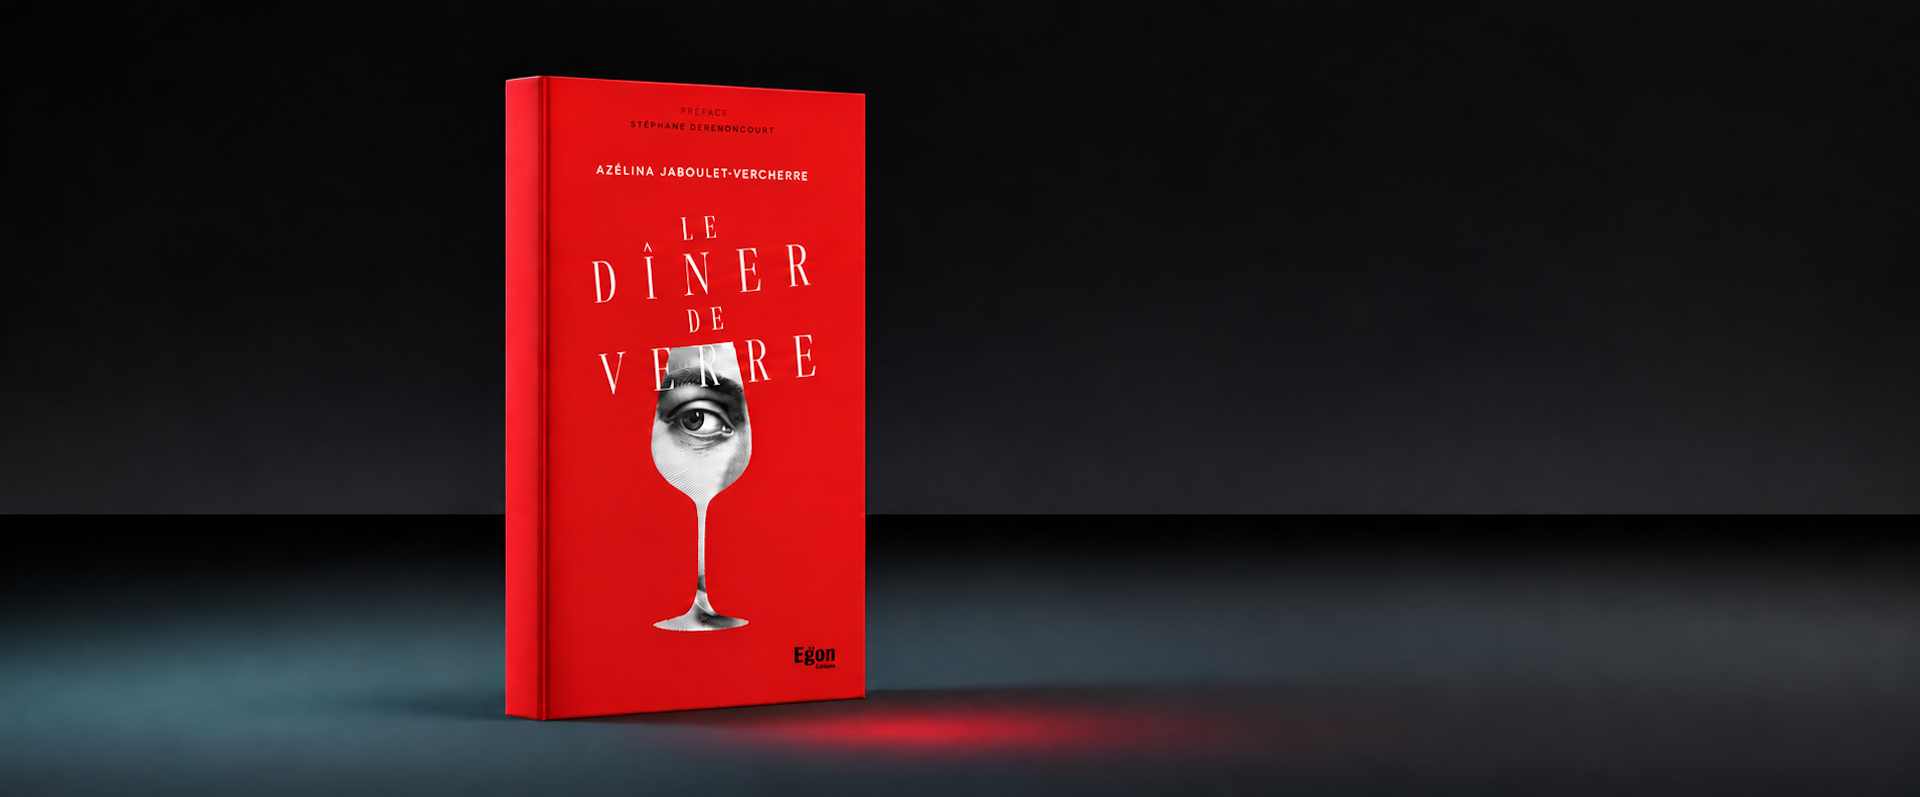
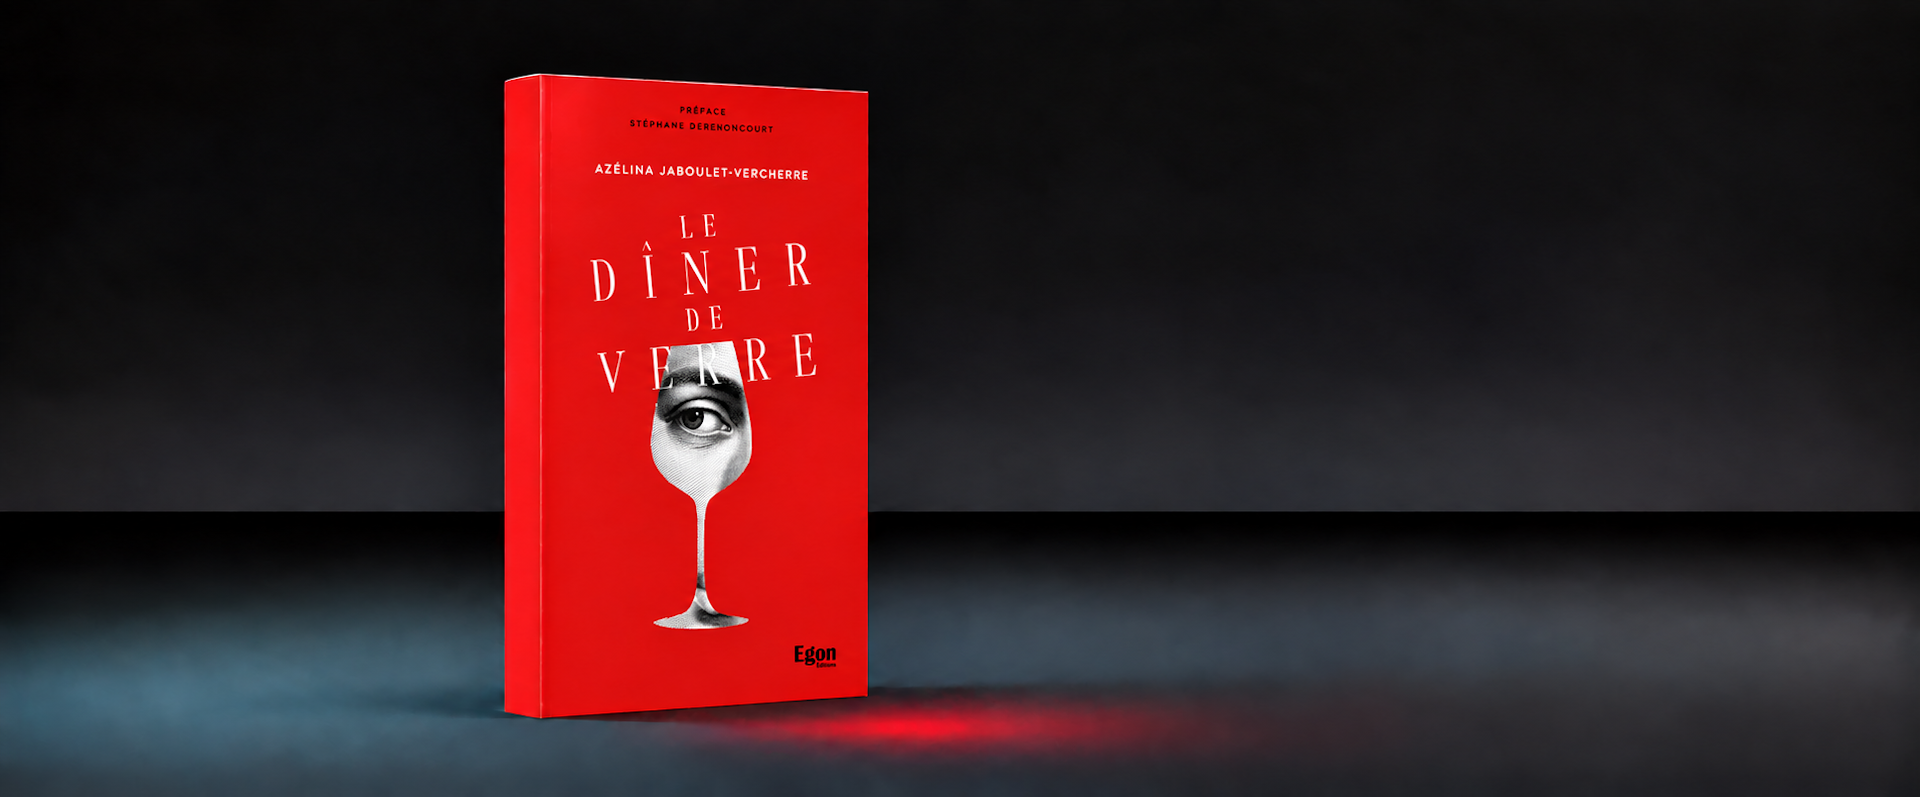
@Paris [EVO] Updated book images + added binding type + temporarily removed book images carousel

diff --git a/src/components/Shop.js b/src/components/Shop.js
@@ -12,9 +12,7 @@ import azelina1 from '../assets/images/shop/azelina_151.png';
 import azelina2 from '../assets/images/shop/azelina_211.png';
 import azelina3 from '../assets/images/shop/azelina_316.png';
 import azelina4 from '../assets/images/shop/azelina_421.png';
-import bookBackCover from '../assets/images/shop/book-back-cover_400.png';
-import bookCover from '../assets/images/shop/book-cover_400.png';
-import bookExcerpt from '../assets/images/shop/book-excerpt_400.png';
+import bookCover from '../assets/images/shop/book-cover_247.png';
 import clsx from 'clsx';
 import drawing1 from '../assets/images/shop/drawing_190.png';
 import drawing2 from '../assets/images/shop/drawing_379.png';
@@ -43,7 +41,7 @@ const Shop = (): React.Node => {
     setCurrentIndex(index);
   }, []);
 
-  const covers = [bookCover, bookBackCover, bookExcerpt];
+  const covers = [bookCover];
 
   return (
     <div
@@ -110,12 +108,12 @@ const Shop = (): React.Node => {
               ))}
             </div>
             <div className='book-cover__carousel'>
-              {covers.map((_, index) => <Bullet
+              {covers.length > 1 ? covers.map((_, index) => <Bullet
                 index={index}
                 isFull={index === currentIndex}
                 isLight={false}
                 key={`cover-bullet-${index}`}
-                onClick={handleBulletOnClick} />)}
+                onClick={handleBulletOnClick} />) : null}
             </div>
             {/* eslint-enable react/no-array-index-key */}
           </div>

diff --git a/src/components/Shop.scss b/src/components/Shop.scss
@@ -152,7 +152,7 @@
           display: flex;
           flex-direction: column;
           row-gap: 1rem;
-          min-width: 330px;
+          min-width: 270px;
 
           .book-details__title {
             font-family: var(--font-family-body-bold);
@@ -240,6 +240,10 @@
         display: flex;
         flex-direction: column;
         row-gap: 2rem;
+
+        > .page-shop__book-cover-details {
+          align-items: center;
+        }
 
         > .page-shop__egon-table {
           max-width: 30rem;
